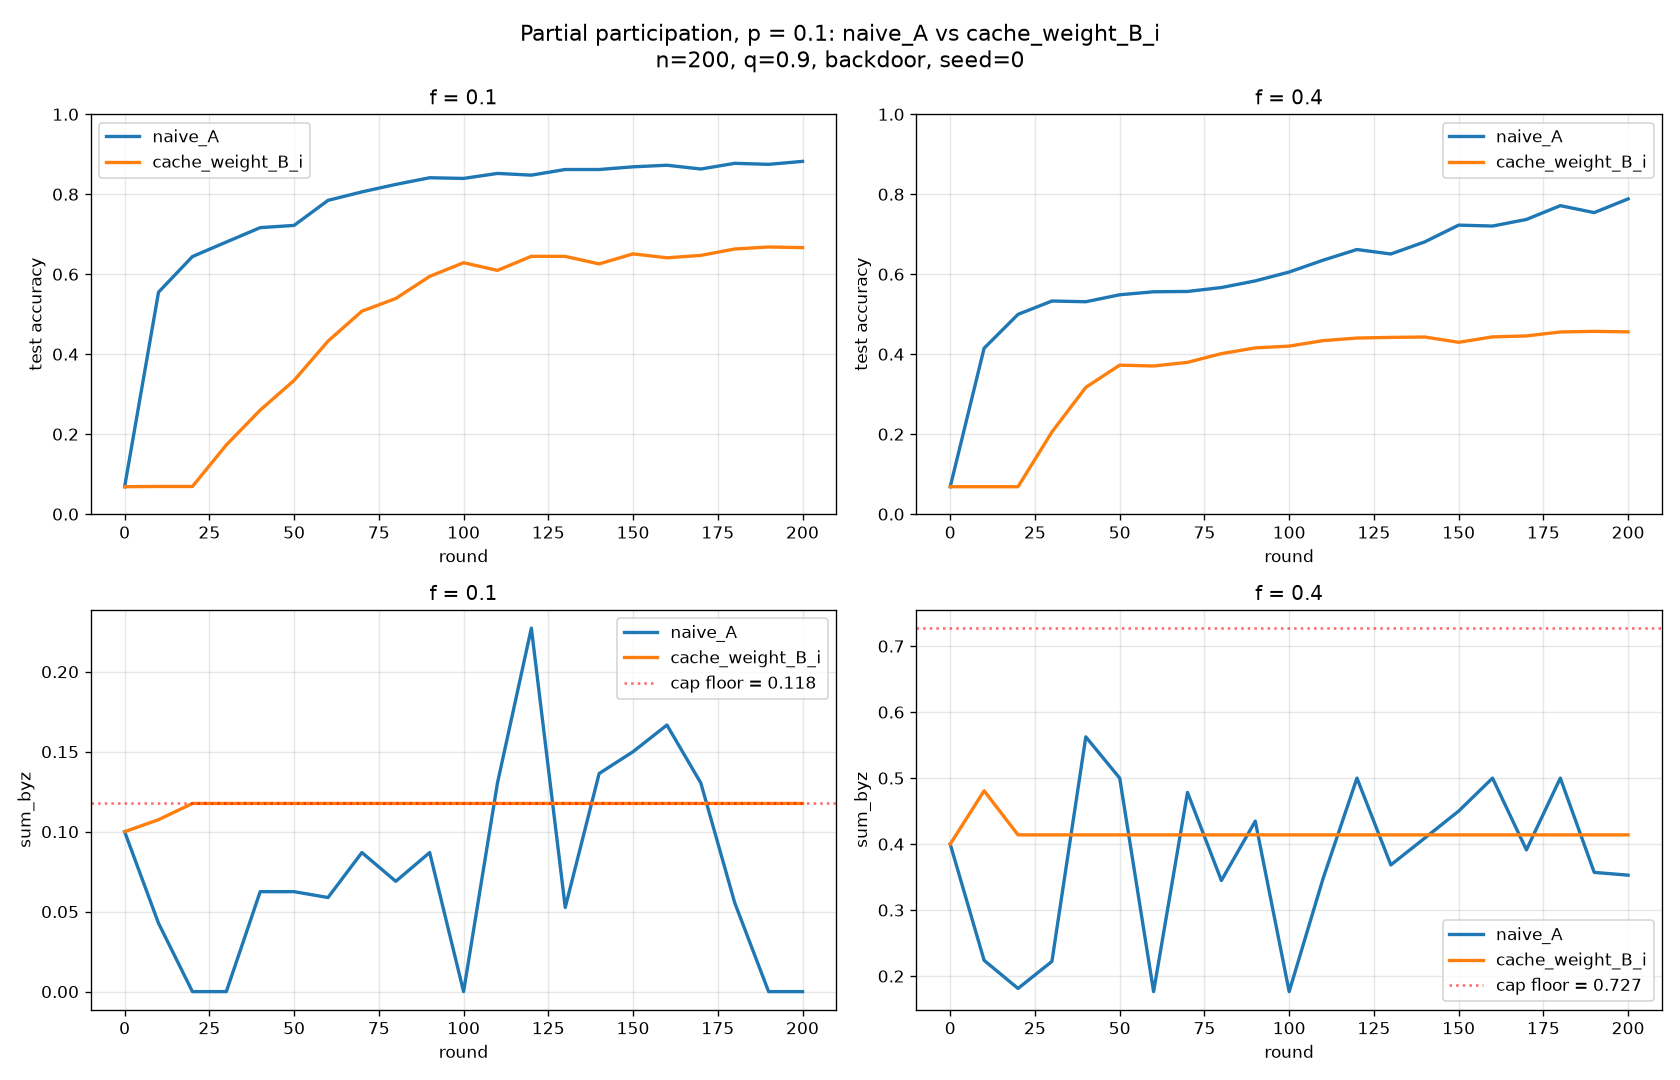
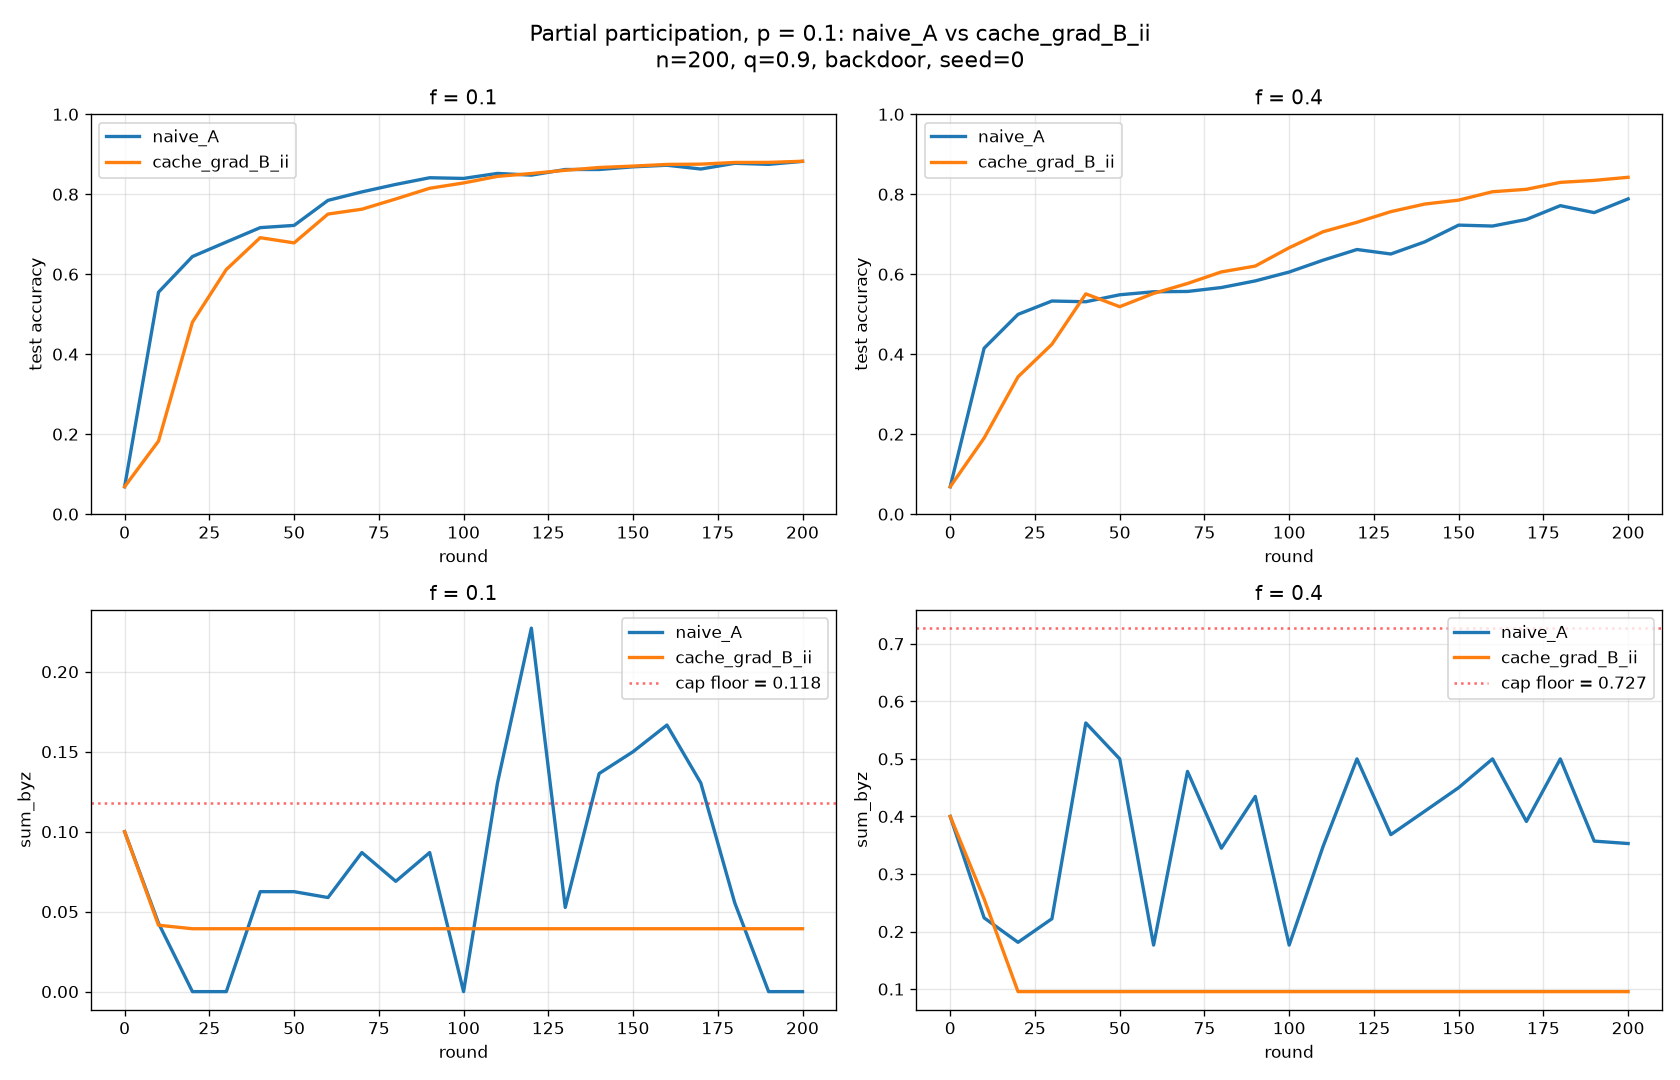
diag(partial-participation): cache_grad_B_ii (Option ii) — VERDICT (A) genuine working B
8-cell DeMoA-protocol comparison: naive_A vs cache_grad_B_ii.

  Cell             naive_A   cache_grad_B_ii   Δ        (Option i ref)
  p=0.5 f=0.1      88.47     86.97             −1.50pp  (was 83.90, −4.57)
  p=0.5 f=0.4      78.73     83.50             +4.77pp  (was 65.69, −13.04)
  p=0.1 f=0.1      88.22     88.25             +0.03pp  (was 66.65, −21.57)
  p=0.1 f=0.4      78.84     84.24             +5.40pp  (was 45.59, −33.25)

sum_byz at final round (detection effectiveness):
  p=0.5 f=0.1   naive 0.106  cache_B_ii 0.074  (30% lower)
  p=0.5 f=0.4   naive 0.413  cache_B_ii 0.094  (77% lower) ←
  p=0.1 f=0.1   naive 0.000  cache_B_ii 0.039  (naive perfect)
  p=0.1 f=0.4   naive 0.353  cache_B_ii 0.096  (73% lower) ←

The +5pp accuracy at f=0.4 correlates with 73-77% reduction in
Byzantine weight mass — the detector IS re-scoring absent clients
through their cached gradient and pushing them down when their
stale gradient stays misaligned with current consensus.

Verdict (A): cache_grad_B_ii is the working canonical Design B.
At low contamination naive is already strong; the caching benefit
materialises under stress (f=0.4) where re-scoring absent clients
preserves continuity of Byzantine suppression across absences.

Plots updated: results/v2/demoa/plots/comparison_p{0.5,0.1}.png.

Σw=1 verified for both modes (Option (ii) tested at p=0.1 f=0.4).
9/9 fedlaw_v2 tests still pass.

Old Option (i) corrected results preserved at
results/v2/demoa_option_i_corrected/.
[…]

diff --git a/scripts/demoa_plot.py b/scripts/demoa_plot.py
@@ -4,7 +4,7 @@ Reads results/v2/demoa/<label>/metrics.csv and produces:
   results/v2/demoa/plots/comparison_p0.5.png — 2x2 grid (frac × {acc, sum_byz})
   results/v2/demoa/plots/comparison_p0.1.png — same layout
 
-Each subplot has 2 lines: naive_A vs cache_weight_B_i.
+Each subplot has 2 lines: naive_A vs cache_grad_B_ii.
 Conforms to DeMoA's "fix p, compare methods within p" protocol.
 """
 from __future__ import annotations
@@ -40,13 +40,13 @@ def load_traj(p: float, frac: float, mode: str):
 
 def plot_p(p: float):
     fig, axes = plt.subplots(2, 2, figsize=(14, 9))
-    fig.suptitle(f"Partial participation, p = {p}: naive_A vs cache_weight_B_i\n"
+    fig.suptitle(f"Partial participation, p = {p}: naive_A vs cache_grad_B_ii\n"
                  f"n=200, q=0.9, backdoor, seed=0",
                  fontsize=13)
 
     for col, frac in enumerate([0.1, 0.4]):
         for mode, color, ls in [("naive_A",            "tab:blue",  "-"),
-                                ("cache_weight_B_i",   "tab:orange", "-")]:
+                                ("cache_grad_B_ii",   "tab:orange", "-")]:
             tr = load_traj(p, frac, mode)
             if tr is None:
                 continue